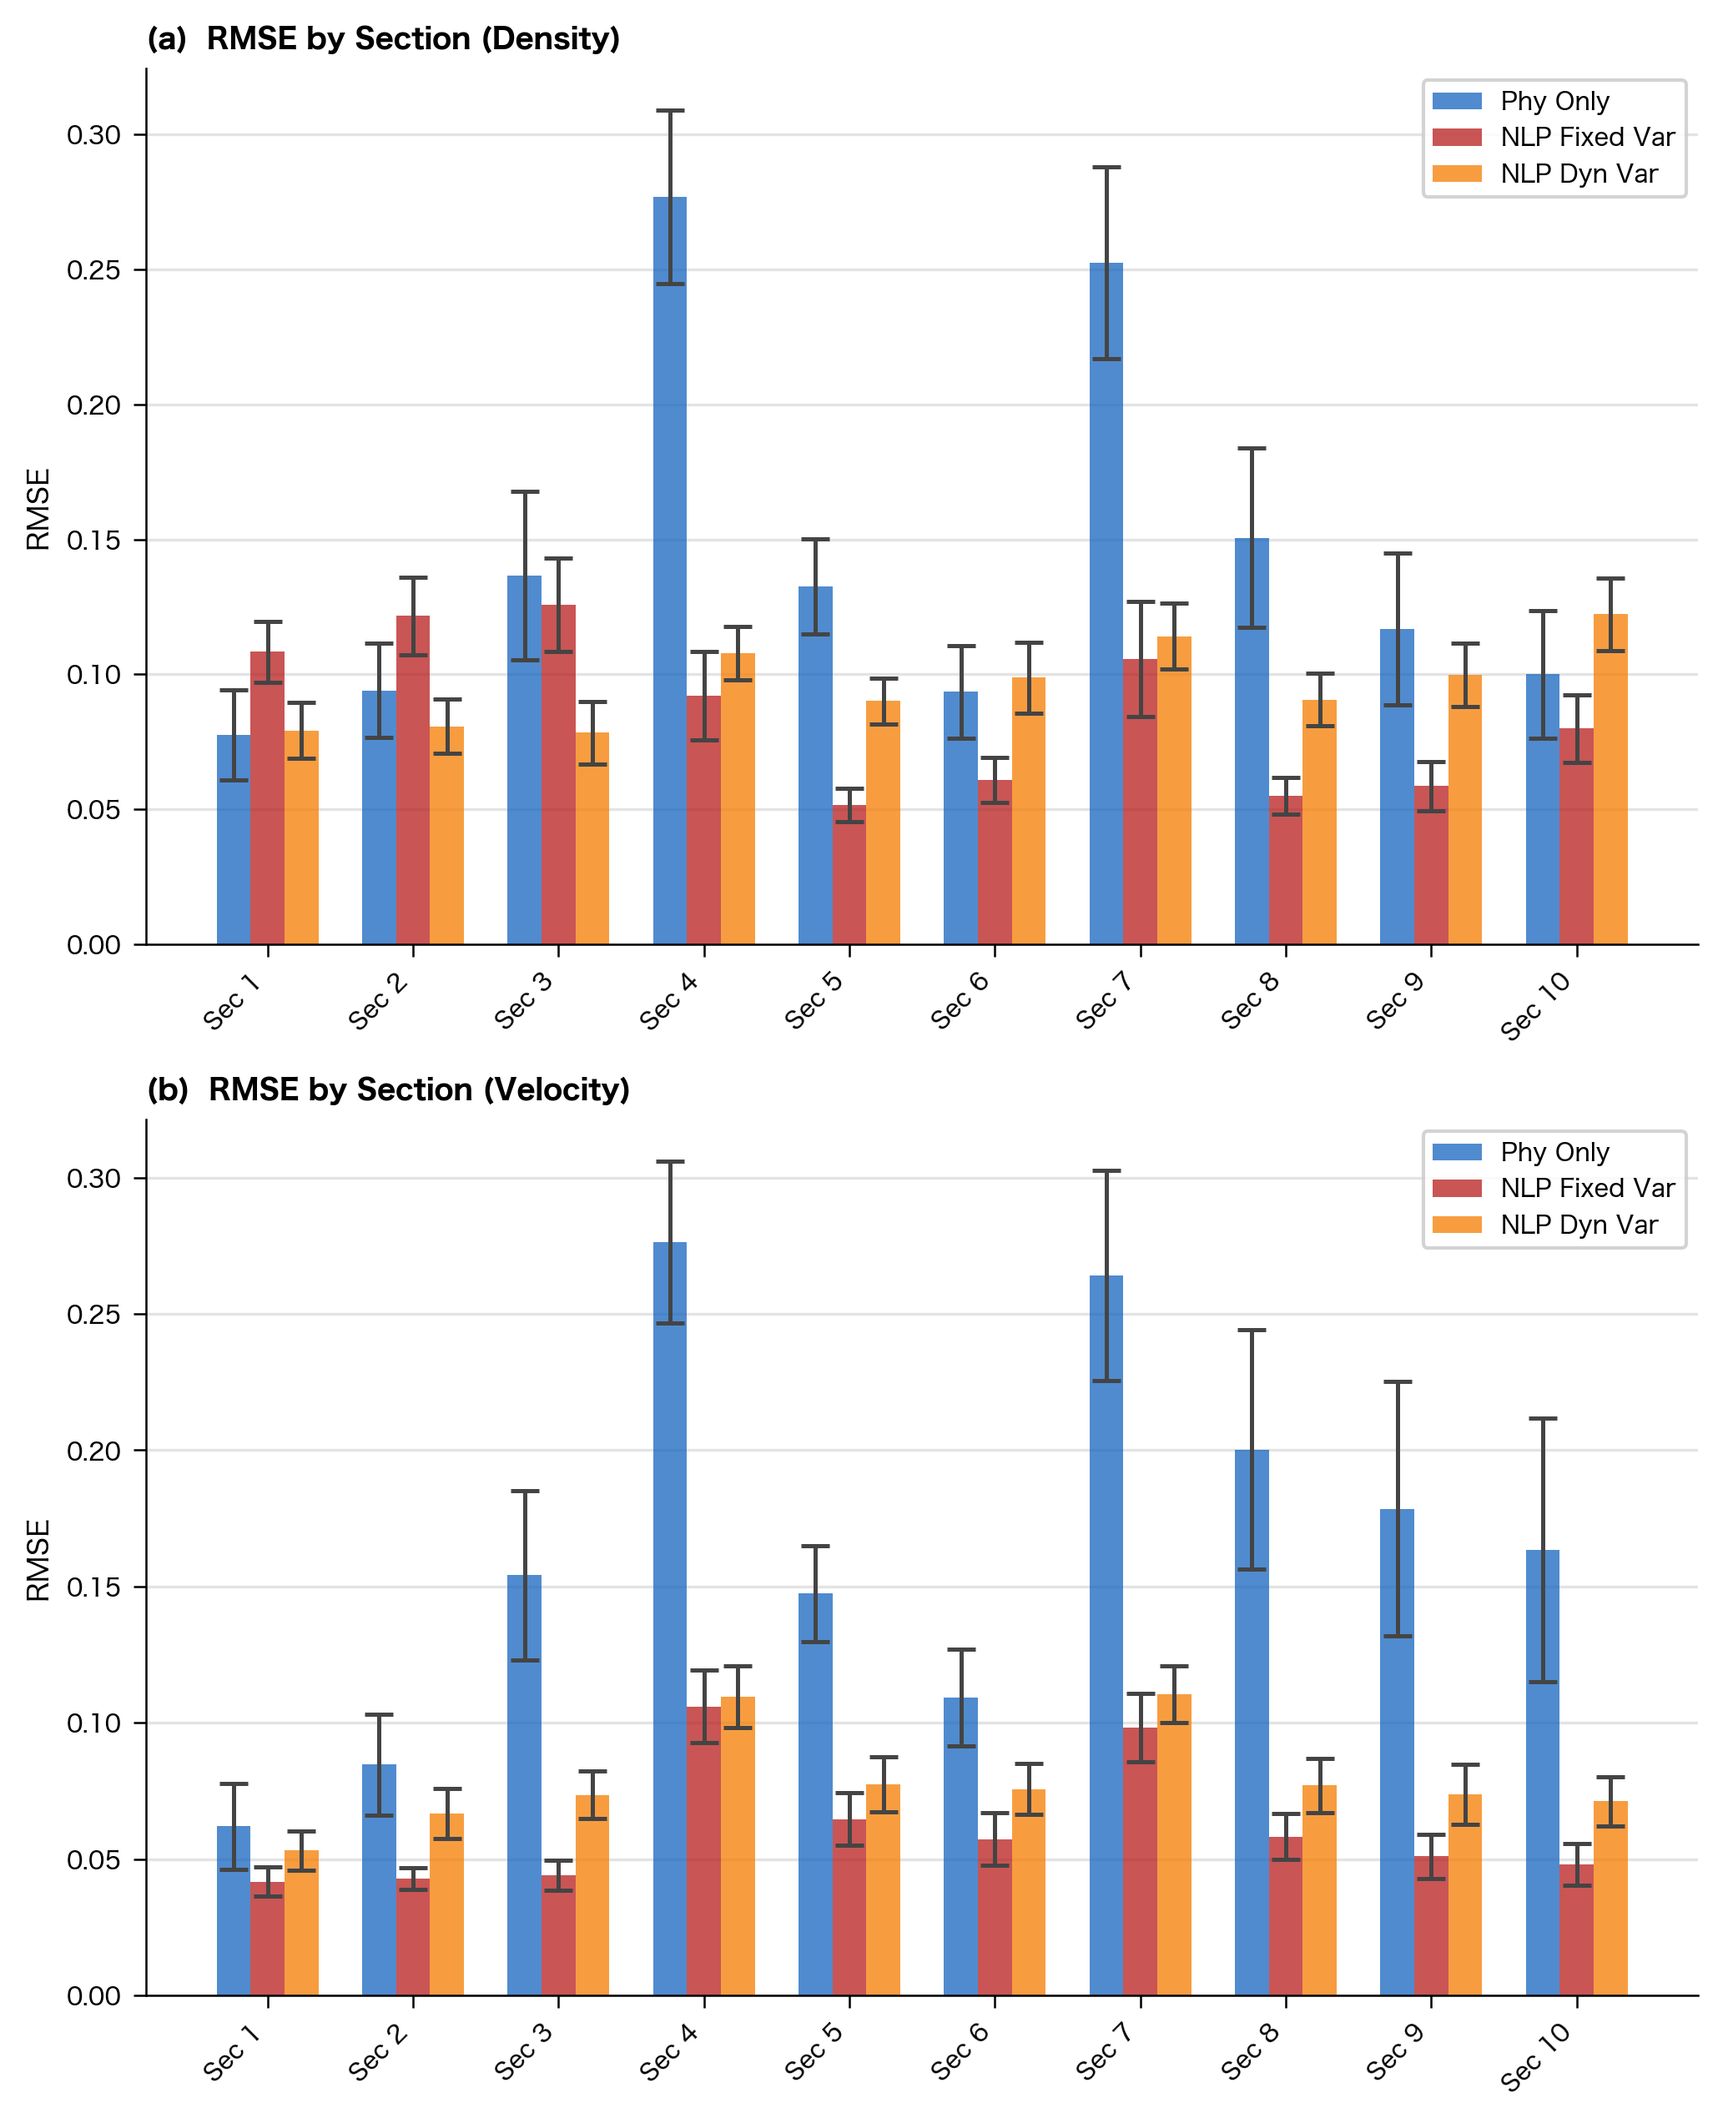
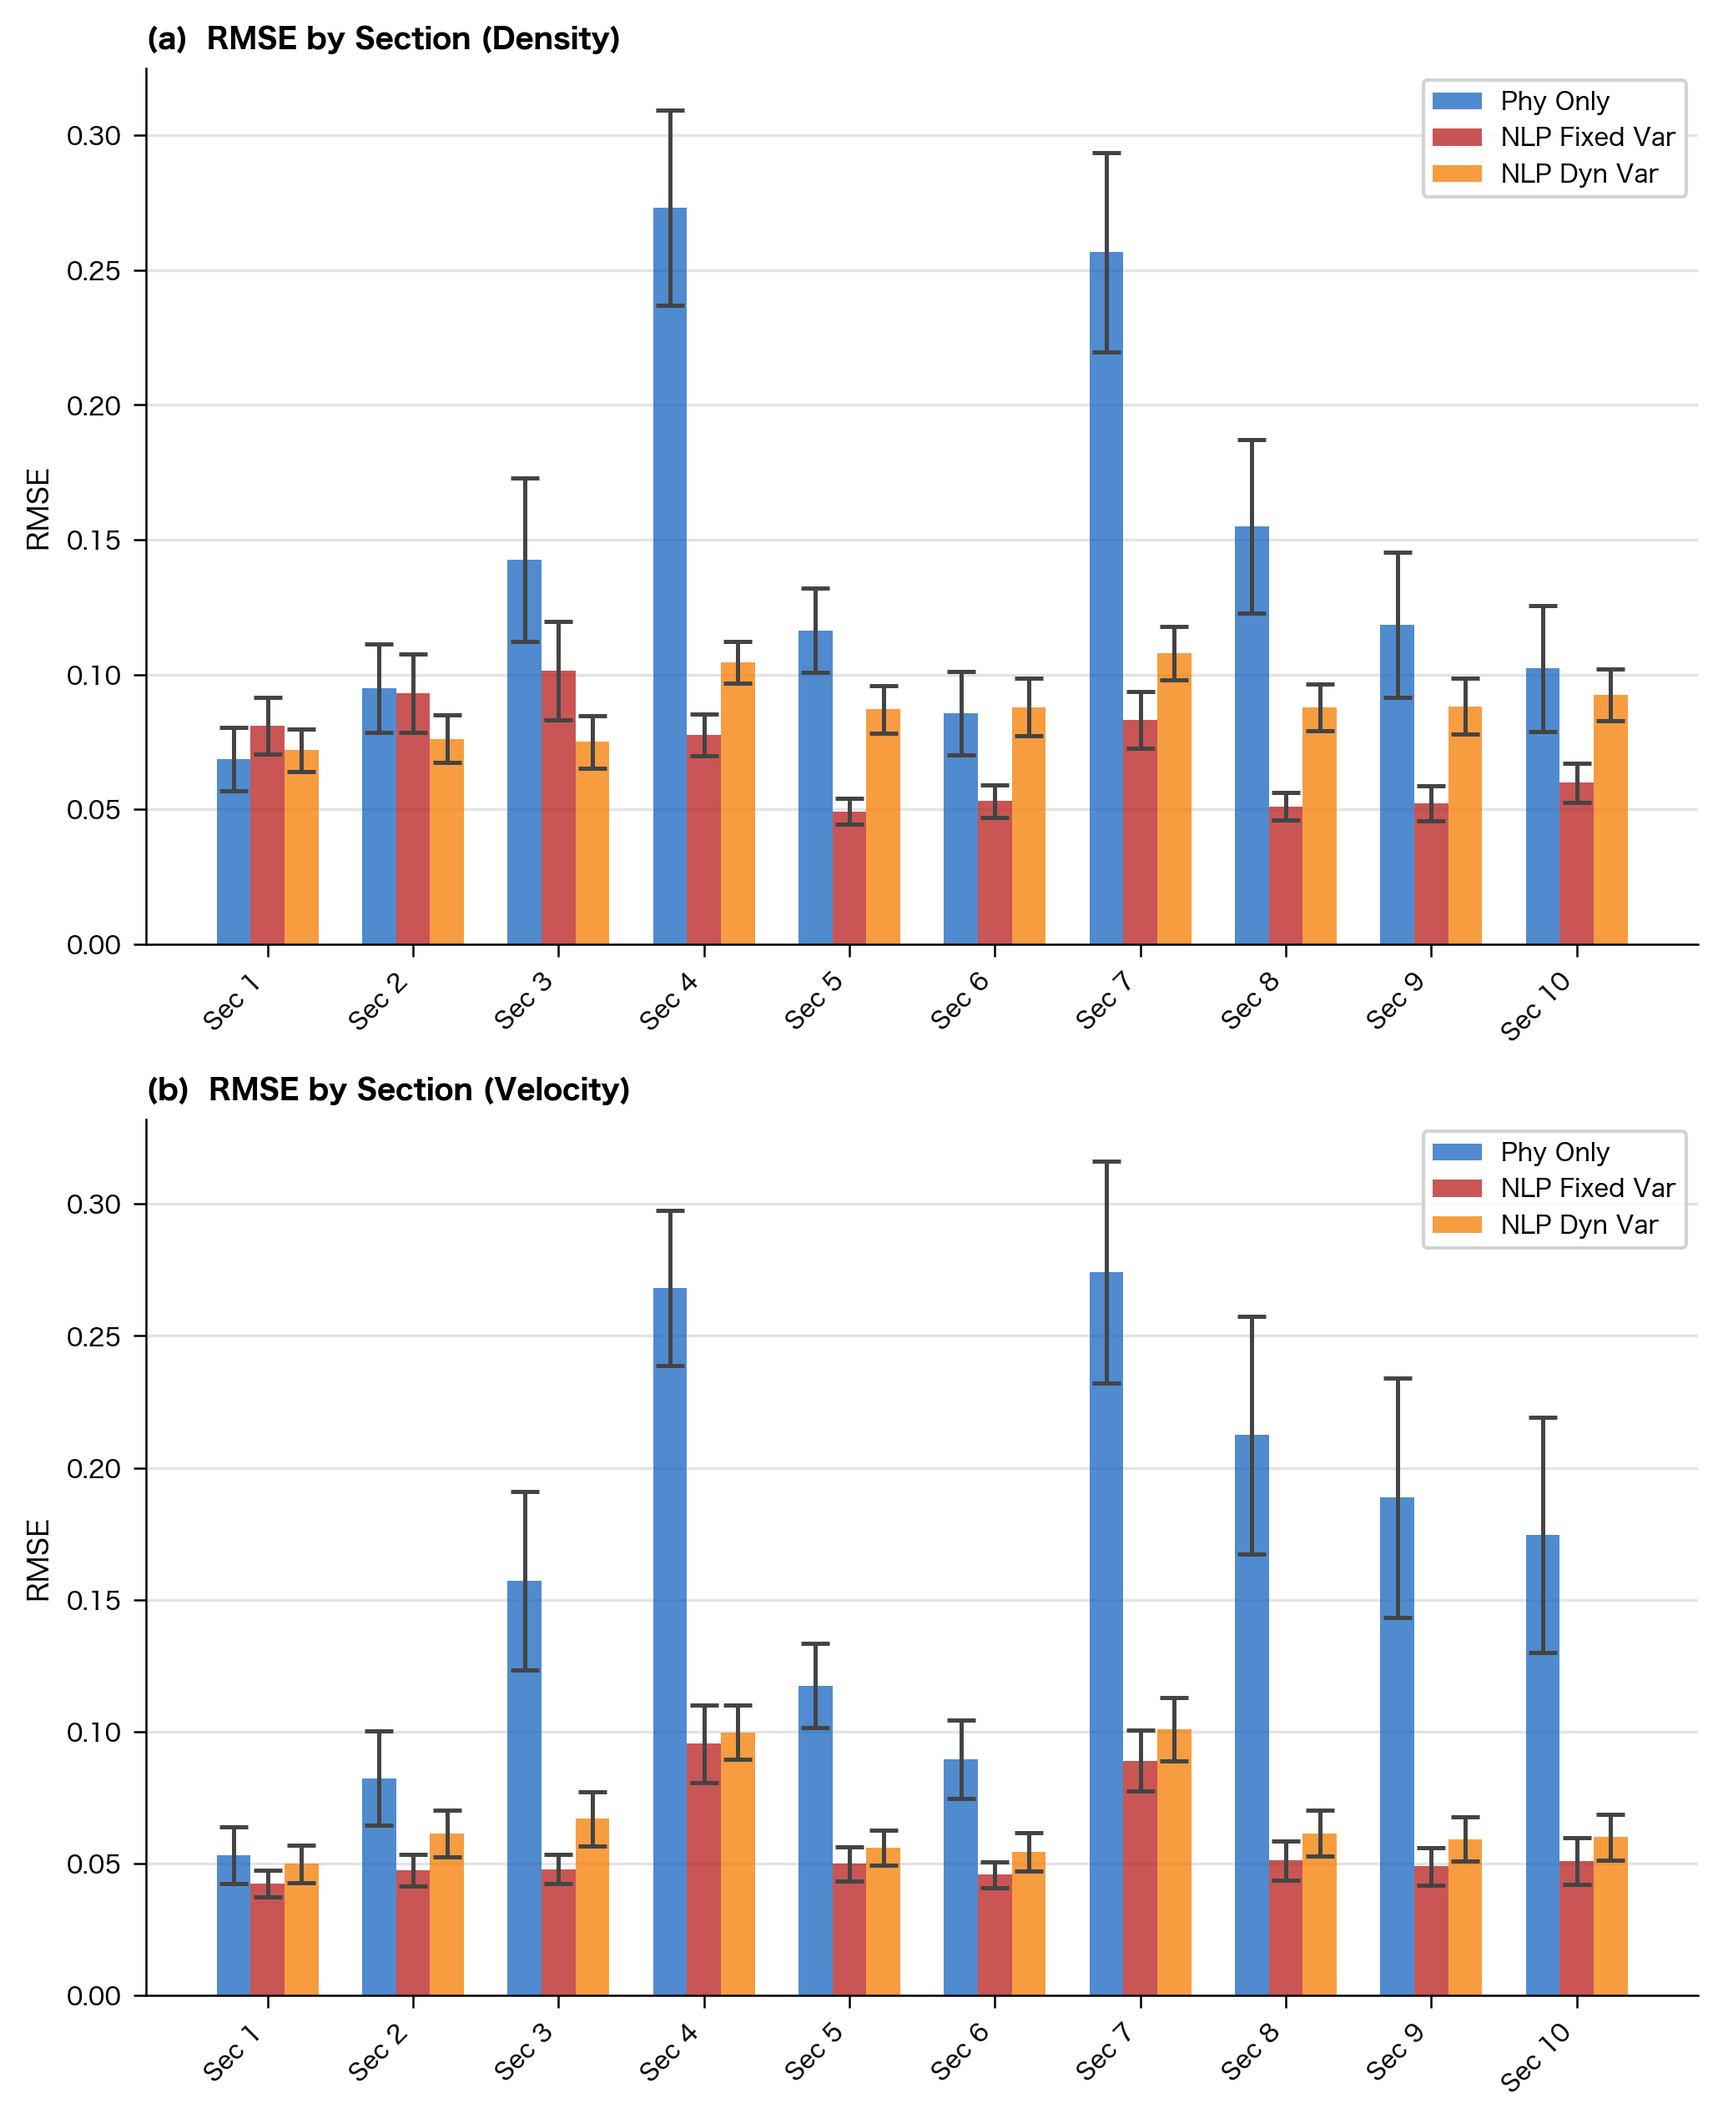
before submission

diff --git a/simulation/config.py b/simulation/config.py
@@ -10,8 +10,8 @@ T = 70
 
 # ノイズ設定
 q_disturbance = 0.03
-r_phy_density = 0.1            
-r_phy_velocity = 0.08           
+r_phy_density = 0.05            
+r_phy_velocity = 0.04           
 r_human_den_perception = 0.01
 r_human_vel_perception = 0.01
 
@@ -51,9 +51,9 @@ HUMAN_CONFIGS = [
 inflow_main = 0.1   # u1: 区間1への流入
 inflow_u2   = 0.3   # u2: 区間4への流入
 inflow_u3   = 0.2   # u3: 区間7への流入
-inflow_v1   = 0.35   # v1: 区間1の速度入力 (自由流速度を与える)
-inflow_v2   = 0.03  # v2: 区間4の速度入力 (合流による減速)
-inflow_v3   = 0.05  # v3: 区間7の速度入力 (合流による減速)
+inflow_v1   = 0.35   # v1: 区間1の速度入力(クリッピング範囲に入るように調整する)
+inflow_v2   = 0.03  # v2: 区間4の速度入力
+inflow_v3   = 0.05  # v3: 区間7の速度入力 
 
 
 # システムモデル設定(model.py)
@@ -66,8 +66,8 @@ q_velocity_base = 0.001
 DISTURBANCE_STATE_INDICES = [3, 6, num_sections + 3, num_sections + 6]
 
 # 外乱の平均(simulation.py)
-W_MEAN_DENSITY  = {3: 0.01, 6: 0.01}
-W_MEAN_VELOCITY = {3: -0.01, 6: 0.0}
+W_MEAN_DENSITY  = {3: 0.0, 6: 0.0}
+W_MEAN_VELOCITY = {3: 0.0, 6: 0.0}
 
 # 初期値(simulation.py)
 x0_density  = 0.8    # 真値の初期密度(全区間)
